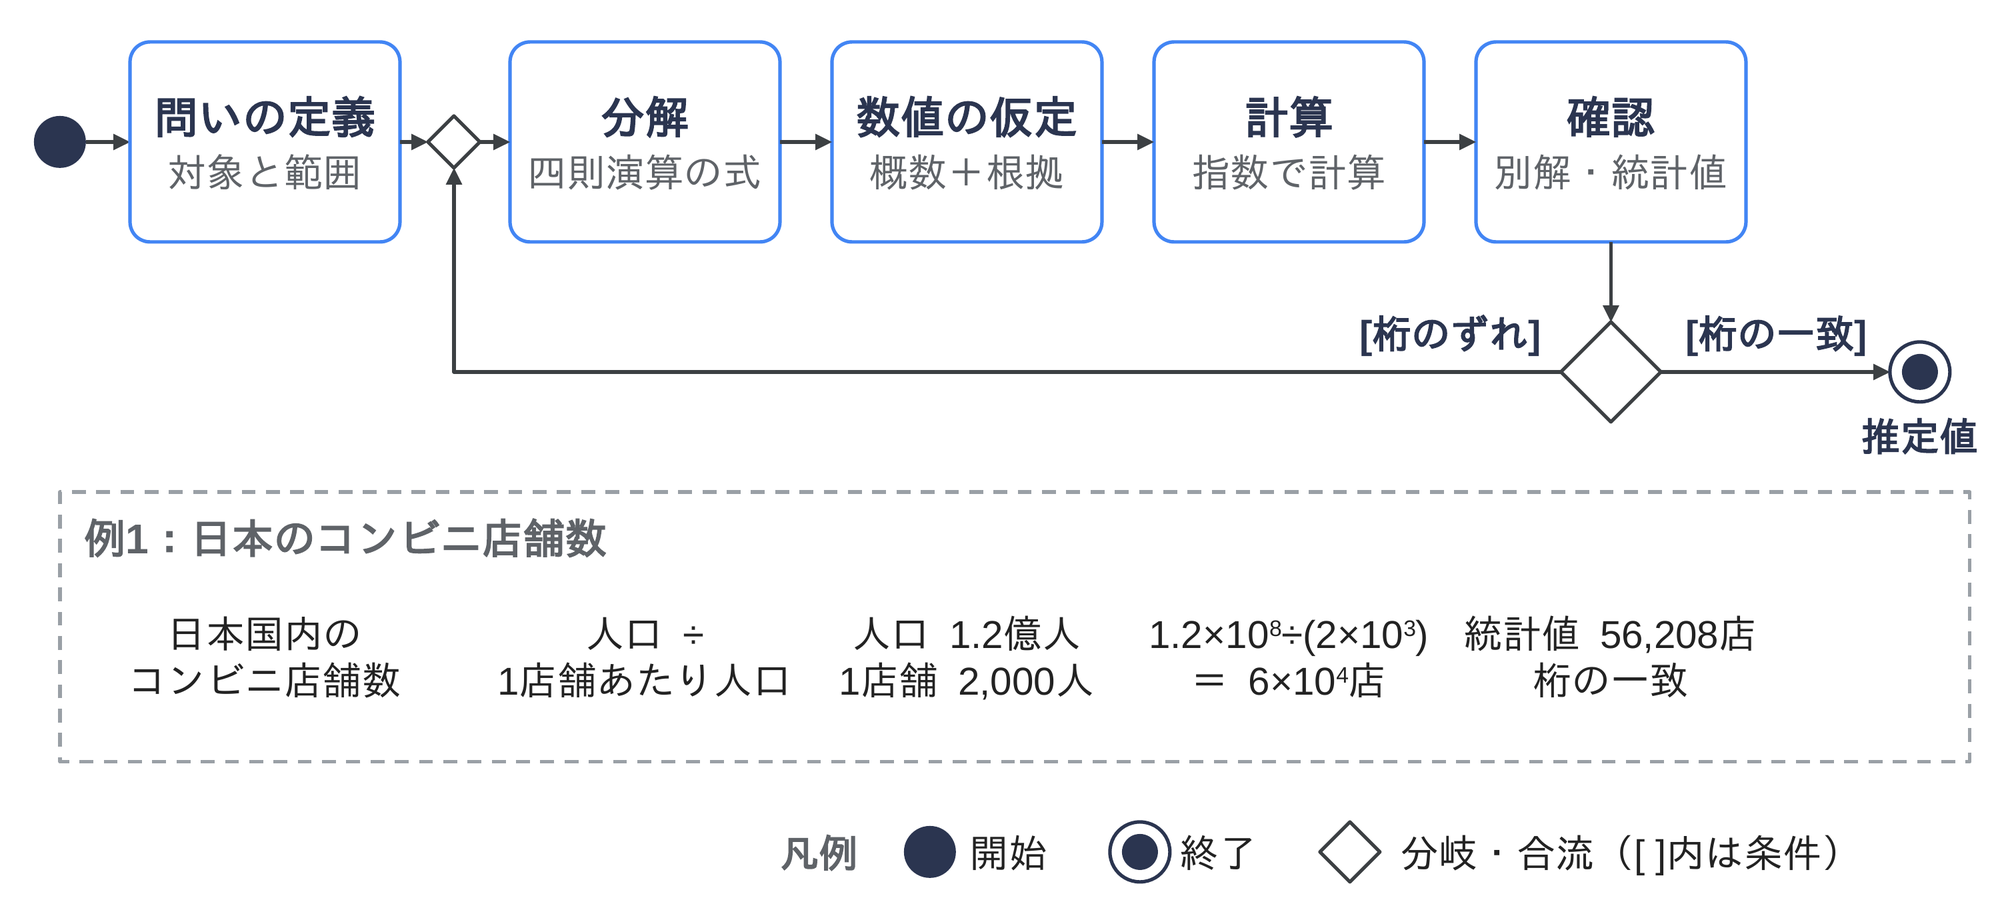
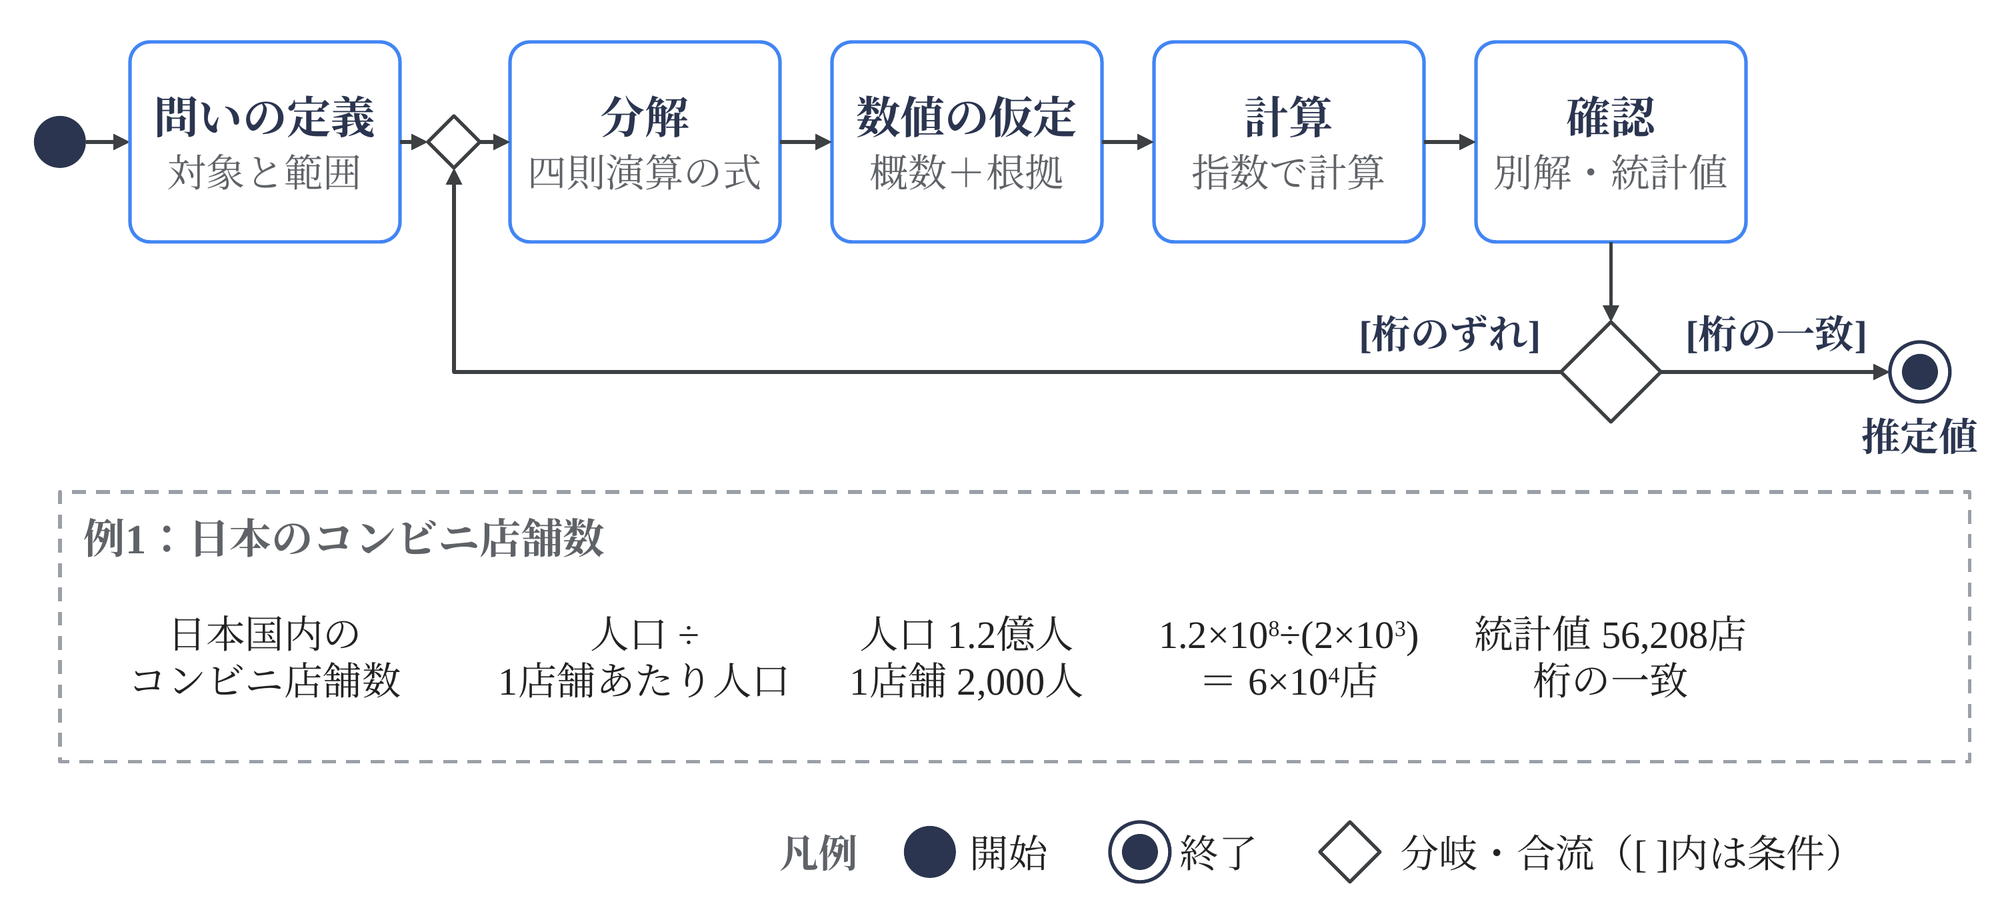
docs(compact): no.10 フェルミ推定のはじめにを書き直し、図1を明朝に統一する
Claude-Session: https://claude.ai/code/session_011yyXhmrRiKBt4vdbiJsuW1

diff --git a/compact/drafts/no.10-fermi-estimation/image/zukai/gen.js b/compact/drafts/no.10-fermi-estimation/image/zukai/gen.js
@@ -1,6 +1,7 @@
 // 図1 フェルミ推定の手順（UMLアクティビティ図、zukai-diagrams の記事用台紙 10×5.625in）
 // 実行: node gen.js [出力.pptx]  → PNG は render.sh
 const Z = require("./zukai.js"), C = Z.C;
+Z.FONT.ja = "Hiragino Mincho ProN"; Z.FONT.en = "Times New Roman";   // Nico指定の明朝体（2026-11-18）
 const OUT = process.argv[2] || "01_フェルミ推定の手順.pptx";
 const F = {title: 16, sub: 14, guard: 14, ex: 14, head: 15};
 const BW = 1.35, BH = 1.0, Y = 0.55, MY = Y + BH / 2, XS = [0.65, 2.55, 4.16, 5.77, 7.38];

diff --git a/compact/drafts/no.10-fermi-estimation/fermi-estimation.md b/compact/drafts/no.10-fermi-estimation/fermi-estimation.md
@@ -17,9 +17,9 @@ private: true
 
 # はじめに
 
-コンサルティングの企業をいくつか受けていて、一次選考がケース面接のところが多いです。
-ケース面接では、フェルミ推定で市場規模などを見積もる問題がよく出ます。
-選考でフェルミ推定に触れてきたので、この記事でまとめておきます。
+コンサルティングの企業をいくつか受けてきて、一次選考がケース面接のところが多かったです。
+そのケース面接では、フェルミ推定で市場規模などを見積もる問題がよく出ていました。
+そこで今回は、フェルミ推定を自分がどういうふうに考えて解いたのかを、この記事にまとめました。
 
 # ひとことで言うと
 
@@ -116,7 +116,6 @@ $$
 # まとめ
 
 フェルミ推定は「正確な答え」ではなく「桁の合った答え」を、筋道立てて出すための方法です。
-おもしろい例題があれば、有識者の方教えて欲しいです！
 
 # 参考
 
